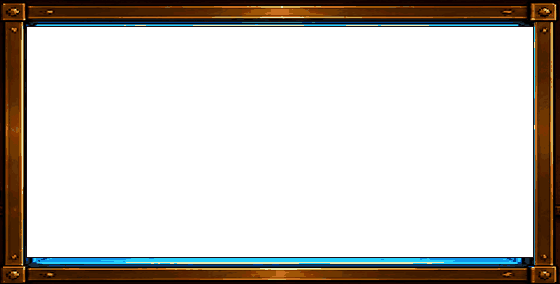
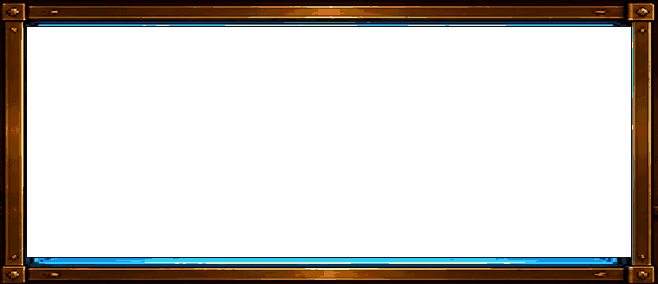
One wreck across the whole tank, and the sofa in front of it

Changed region(s): [[0.8804, 0.0, 1.0, 1.0], [0.0, 0.0, 0.1214, 1.0]]

diff --git a/js/hub.js b/js/hub.js
@@ -43,8 +43,8 @@ const BAR = [0, 132];
 // The lit water, not the frame. The brass surround is lair_tank_frame, a nine-slice
 // rebuilt by tools/build_lair_extras.py and blitted OVER the plate's original tank, so
 // the wall behind never had to be repaired - see build_tankframe.
-const TANK = { x: 156, y: 42, w: 250, h: 112 };
-const TANK_FRAME = { x: 141, y: 27, w: 280, h: 142 };
+const TANK = { x: 156, y: 42, w: 299, h: 112 };
+const TANK_FRAME = { x: 141, y: 27, w: 329, h: 142 };
 // ONE long trophy hall - widen_alcove in tools/build_lair_wide.py rebuilds the niche and
 // the dead bay next to it as a single unit, logical 477.5-748.5 with a 13-wide frame
 // moulding at each end. Six relics across 244 leaves ~15 of air between them.
@@ -80,7 +80,7 @@ const MIRROR_FRAME = [1344, 50, 57, 103];
 export const BAG_X = 990;
 export const FIXTURES = [
   { id: 'bar', x: 60, hint: 'POUR ONE' },
-  { id: 'lounge', x: 350, hint: 'SIT AND SMOKE' },
+  { id: 'lounge', x: 305, hint: 'SIT AND SMOKE' },
   { id: 'trophies', x: 613, hint: 'TROPHY WALL' },   // the middle of the hall
   { id: 'map', x: 800, hint: 'WORLD TOUR' },
   { id: 'hifi', x: 880, hint: 'SOUND TEST' },
@@ -172,10 +172,13 @@ const LAIR_ART = [
   // cigar cabinet built flush into the second one's base panel (482.5-591 x 147-165.5)
   // rather than standing in front of the wall. The arcade cabinet is gone: it was the
   // only injection-moulded object in a walnut room, and this bay is worth more as shelf.
-  // Between the sofa and the trophy hall, which is where you would keep the cigars in a
-  // room where you smoke them on that sofa. 422-478: the sofa ends at 420.5 and the hall's
-  // frame starts at 477.5, so it fits the gap exactly.
-  { art: 'lair_humidor', x: 450, y: WALL_BASE, w: 56, h: 78 },
+  // Under the world map. It stood beside the sofa for a while, but the tank took that
+  // wall - 141 to 470 leaves nothing between it and the trophy hall. Here it clears the
+  // hall (ends 748.5), the map's frame (art starts 796, bottom at 109 against this
+  // cabinet's top at 113) and the hi-fi (starts 856).
+  { art: 'lair_humidor', x: 790, y: WALL_BASE, w: 56, h: 78 },
+  // grounds the sofa, which was floating on bare granite
+  { art: 'lair_lounge_rug', x: 305, y: WALL_BASE + 34, w: 146, h: 30 },
   // centred in the panelled bay, whose gold inset measures x 775.75-895.75, y 37-130
   { art: 'lair_worldmap', x: 836, y: 109, w: 80, h: 48 },
   { art: 'lair_hifi', x: 880, y: WALL_BASE, w: 48, h: 60 },
@@ -206,7 +209,7 @@ const LAIR_ART = [
 // The lounge is a pair: the same sofa empty and with CHAD sitting in it, registered on
 // the sofa's own foot by tools/build_lair_extras.py. His boots hang below the sofa
 // legs, which is why the canvas bottom sits a little in front of the wall base.
-const LOUNGE = { x: 350, y: WALL_BASE + 9, w: 141, h: 63 };
+const LOUNGE = { x: 305, y: WALL_BASE + 9, w: 141, h: 63 };   // centred on the tank
 
 
 // ------------------------------------------------------- fixture art fallback
@@ -235,6 +238,9 @@ function fallbackArt(name, w, h) {
     P.disc(w * 0.3, h * 0.6, w * 0.28, '#8a2028');
     P.disc(w * 0.7, h * 0.6, w * 0.28, '#8a2028');
     P.rect(w * 0.45, 0, 2, h * 0.4, '#c8a038');
+  } else if (name === 'lair_lounge_rug') {
+    P.rect(0, h * 0.25, w, h * 0.75, '#241a1e');
+    P.rect(4, h * 0.4, w - 8, h * 0.45, '#5a1e24');
   } else if (name.startsWith('lair_bar_bottles_')) {
     for (let i = 0; i < 12; i++) {
       const bh = h - 4 - ((i * 5) % 7);
@@ -630,7 +636,7 @@ export const HUB_STAGE = {
   glows: [
     { x: 60, y: 130, r: 48, col: '255,180,90', a: 0.14 },
     { x: 225, y: 150, r: 58, col: '90,200,230', a: 0.15 },
-    { x: 350, y: 60, r: 44, col: '255,190,110', a: 0.13 },
+    { x: 305, y: 60, r: 44, col: '255,190,110', a: 0.13 },
     { x: 530, y: 150, r: 52, col: '255,180,90', a: 0.13 },
     { x: 613, y: 150, r: 52, col: '255,180,90', a: 0.13 },
     { x: 700, y: 150, r: 52, col: '255,180,90', a: 0.13 },
@@ -700,7 +706,7 @@ const shark = { x: 0, dir: 1, frame: 0, t: 0, turn: 0, puff: 0, draw: 0 };
 const bubbles = [];
 const smoke = [];
 const silt = [];
-const SCAPE_H = 61;           // lair_tankscape, sized in tools/process_props.py
+const SCAPE_H = 92;           // lair_tankscape, sized in tools/process_props.py
 const SHARK_W = 56;           // lair_shark_*, from tools/build_lair_extras.py SHARK_H
 // The lit end of the cigar, measured off assets/lair/shark_0.png as an offset from the
 // sprite's own top-left. The smoke has to leave the cigar, not the middle of the shark.
@@ -735,7 +741,10 @@ function bubble(x, y, r) {
 
 // One place that says where he is, so the smoke leaves the cigar and not his tail.
 function sharkY() {
-  return TANK.y + 8 + Math.sin(shark.t * 0.012) * 12;
+  // He ranges over most of the glass, so he passes in FRONT of the masts and the hull as
+  // often as he is against open water - which is the difference between a tank with a
+  // shark in it and a shark on a blue background.
+  return TANK.y + 12 + Math.sin(shark.t * 0.0085) * 22;
 }
 
 // The lit end, in world coords, mirrored with him.
@@ -906,15 +915,23 @@ function drawTank(ctx, camX) {
 
   lightShafts(ctx, l);
   drawSilt(ctx, camX, false);
+  // The neon sign inside the hull is a real light source in the scene, so it spills into
+  // the water around it. Measured off lair_tankscape as a fraction of the glass, so it
+  // follows the art if the tank is ever resized again.
+  {
+    const nx = l + TANK.w * 0.44, ny = TANK.y + TANK.h * 0.60;
+    const pulse = 0.16 + 0.05 * Math.sin(shark.t * 0.05) + 0.03 * Math.sin(shark.t * 0.31);
+    const g = ctx.createRadialGradient(nx, ny, 3, nx, ny, 62);
+    g.addColorStop(0, `rgba(255,80,190,${pulse})`);
+    g.addColorStop(1, 'rgba(255,60,170,0)');
+    ctx.fillStyle = g;
+    ctx.fillRect(nx - 62, ny - 62, 124, 124);
+  }
 
-  // his lair, on the tank floor and behind him. Two pieces: the second one goes down
-  // first and the original overlaps its left end, so the join is one object in front of
-  // another rather than a seam.
-  const floorY = TANK.y + TANK.h;
-  const scapeB = ASSETS.lair_tankscape_b;
-  if (scapeB) blit(ctx, scapeB, l + TANK.w - frameW(scapeB), floorY - frameH(scapeB));
+  // his lair, on the tank floor and behind him - ONE generation across the full width
   const scape = ASSETS.lair_tankscape || fallbackArt('lair_tankscape', TANK.w, SCAPE_H);
-  blit(ctx, scape, l, floorY - frameH(scape));
+  blit(ctx, scape, l + Math.round((TANK.w - frameW(scape)) / 2),
+       TANK.y + TANK.h - frameH(scape));
 
   const simg = ASSETS['lair_shark_' + shark.frame];
   if (simg) {

diff --git a/js/assets.js b/js/assets.js
@@ -30,8 +30,8 @@ const FILES = {
   lair_bar_drink_4: 'assets/lair/bar_drink_4.png',
   lair_humidor: 'assets/lair/humidor.png',
   lair_tankscape: 'assets/lair/tankscape.png',
-  lair_tankscape_b: 'assets/lair/tankscape_b.png',
   lair_tank_frame: 'assets/lair/tank_frame.png',
+  lair_lounge_rug: 'assets/lair/lounge_rug.png',
   lair_overmantel: 'assets/lair/overmantel.png',
   lair_bag_chain: 'assets/lair/bag_chain.png',
   lair_gloves: 'assets/lair/gloves.png',

diff --git a/tools/process_props.py b/tools/process_props.py
@@ -49,11 +49,12 @@ LAIR = {
     # as a thing CHAD owns. 56 wide is the clear window between the trophy wall's last
     # relic (ends 740) and the world map's frame (starts 796).
     "humidor": (56, 78),
-    # The tank floor, in two pieces since the tank grew to 250 of glass: the original
-    # lounge on the left and the safe-and-jukebox half behind it on the right. Sized by
-    # HEIGHT so their sand lines agree; they overlap in the middle on purpose.
-    "tankscape": (150, 61),
-    "tankscape_b": (146, 61),
+    # The tank floor: ONE generation spanning the full 299 of glass. Two pieces butted
+    # together showed their join however well they matched. Tall - the masts and the kelp
+    # reach most of the way up on purpose, and the shark swims in FRONT of the wreck
+    # rather than in a strip of empty blue above it.
+    "tankscape": (299, 92),
+    "lounge_rug": (170, 30),
     "overmantel": (77, 68),
     # exactly the run from the ceiling bracket to the bag's collar, so it never tiles
     "bag_chain": (10, 100),

diff --git a/tools/build_lair_extras.py b/tools/build_lair_extras.py
@@ -570,7 +570,7 @@ def build_bardrink():
 # The tank's brass surround, lifted out of the plate and rebuilt bigger. Source bounds are
 # the frame's outer edge in assets/bg_lair_wall.png; TANK_OUT is where it goes now.
 TANK_SRC = (282, 60, 623, 328)          # device, in the plate
-TANK_OUT = (282, 54, 842, 338)          # device: logical 141-421 x 27-169
+TANK_OUT = (282, 54, 940, 338)          # device: logical 141-470 x 27-169
 TANK_CORNER = 26                        # the corner plates, which must NOT be scaled
 
 

diff --git a/CLAUDE.md b/CLAUDE.md
@@ -211,8 +211,14 @@ shark into furniture. What actually reads as alive is all procedural and free: a
 column off the scenery, a puff off the shark's cigar every few seconds, banking into the
 turns at each end (a shark that reverses on the spot is a cardboard cutout), and going
 for the food when you feed him — `?auto=verify` asserts that last one, because a fixture
-whose animal ignores it is a fixture doing nothing. `lair_tankscape` is his lair, drawn
-behind him inside the same clip rect and sized by WIDTH to span the full 150 of glass.
+whose animal ignores it is a fixture doing nothing. `lair_tankscape` is his lair, ONE generation spanning the full 299 of glass: two halves
+butted together showed their join however well they matched. Two things must be stated in
+the prompt or it comes back unusable — the ASPECT as an explicit rule ("about three times
+wider than it is tall"), because "the lower half of the image" gets ignored and it fills
+the square frame at 1.5; and that things RISE out of the wreck, because a low strip of
+scenery under a tall column of flat blue is exactly what was wrong with the first one. The
+scenery is 92 of the 112 of glass and **the shark swims in front of it**, which is what a
+shark in a tank does and what stops the water being empty.
 The open water above it is four drifting light shafts, a caustic ripple banded across the
 back wall and 26 motes of suspended silt at their own depths - all procedural, because
 what a flat blue rectangle is missing is movement, not texture.
